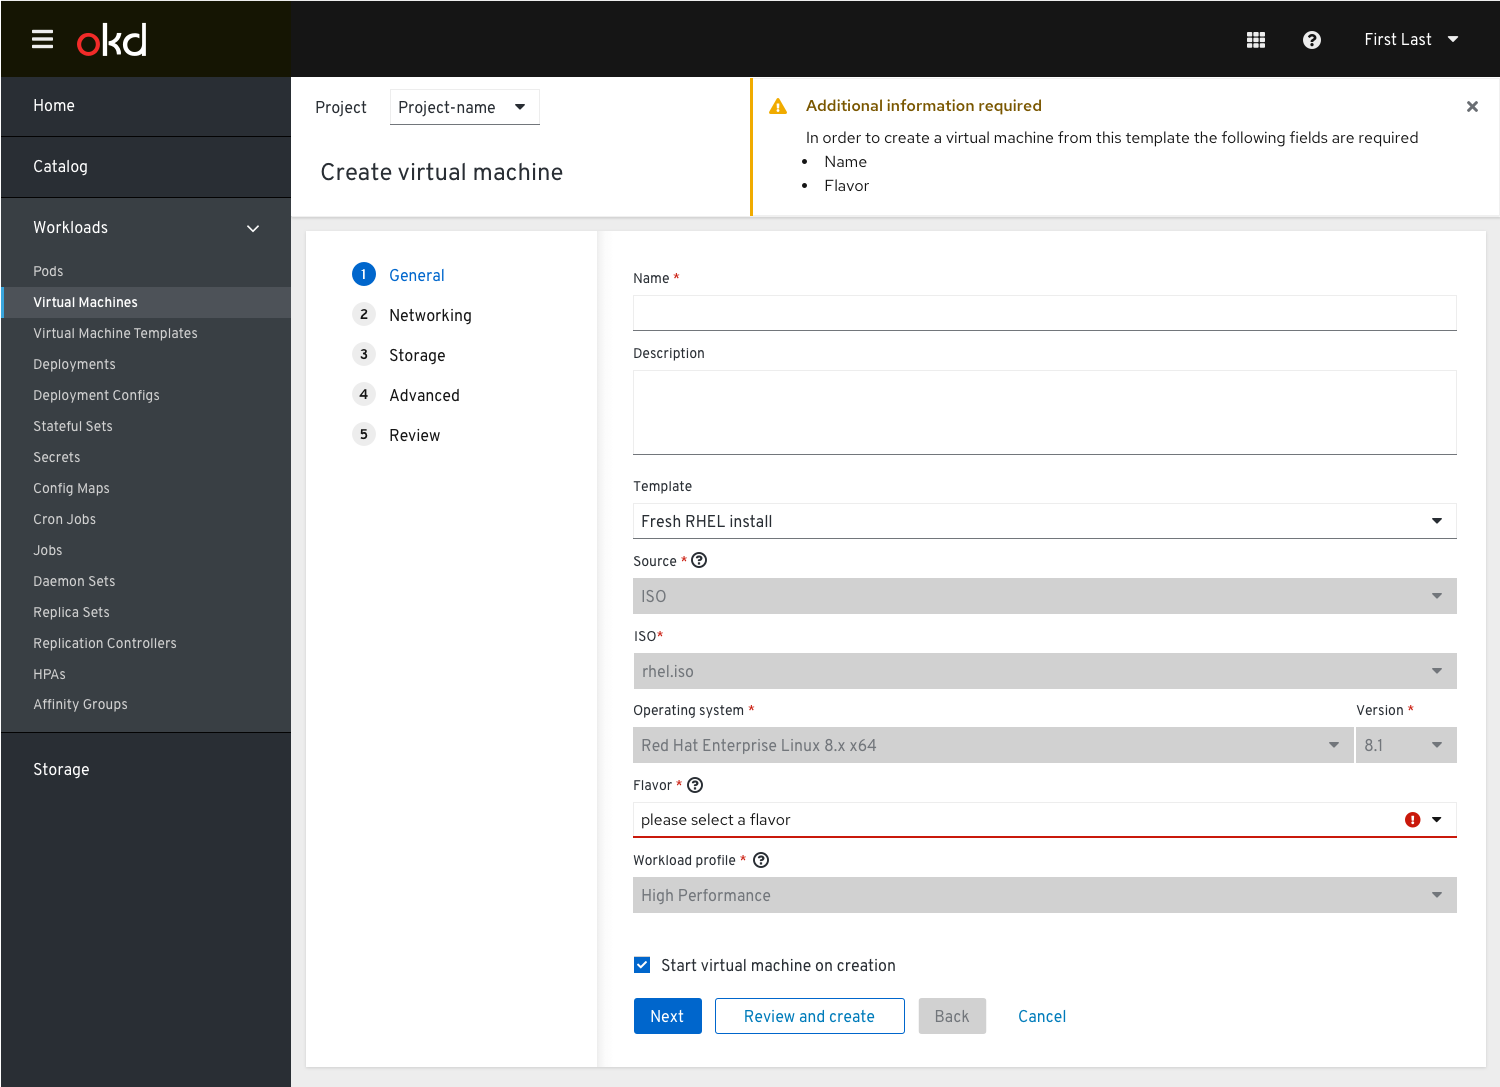
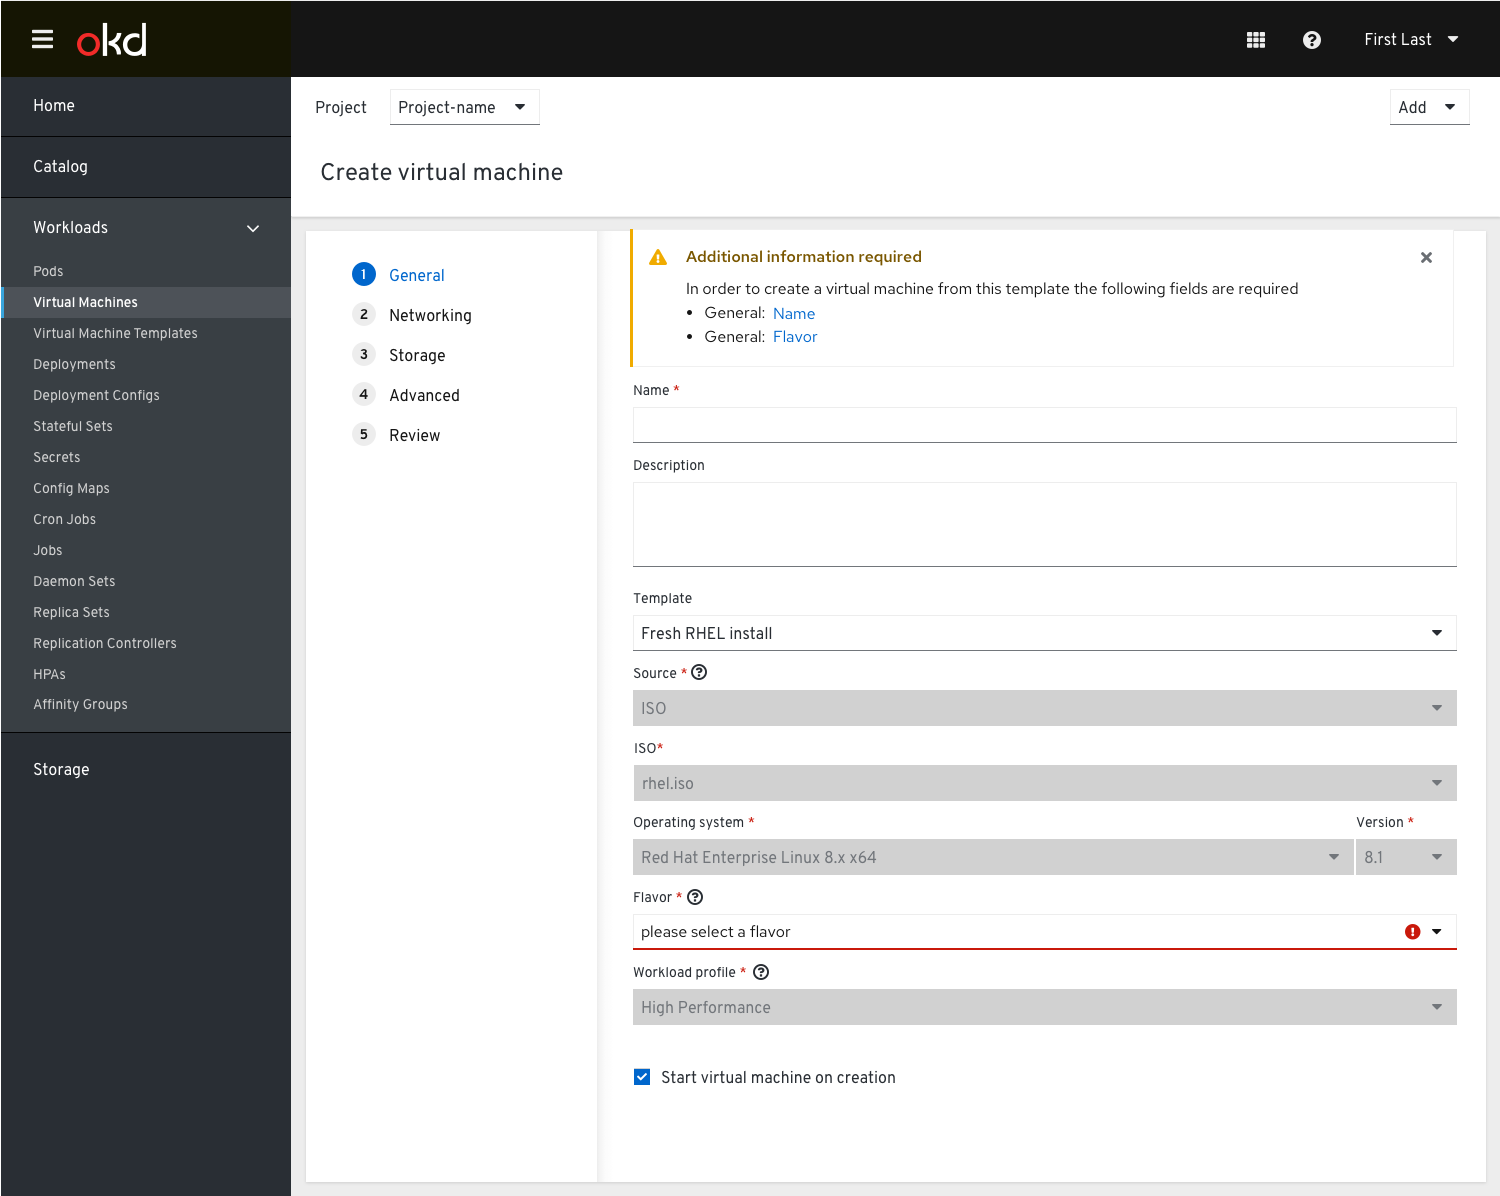
updates in md and files

diff --git a/designs/virtualization/4.x/Templates/Templates.md b/designs/virtualization/4.x/Templates/Templates.md
@@ -24,7 +24,7 @@ Clicking the secondary button ‘Edit and Create’ will allow them to edit the 
 
 ![ModalToProvideName](img/NoMissingInfo.png)
 
-In case a user selects a template that has required info missing, they will be taken to the wizard to edit the details and then create the VM. An inline alert will be shown and indicate which info is missing.
+In case a user selects a template that has required info missing, they will be taken to the wizard to edit the details and then create the VM. An inline alert will be shown and indicate via a clickable link which info is missing and where it is located so by clicking it the user can quickly complete the required info.
 
 ![Back to wizard to complete info](img/Step-1-basic-template-3.png)
 
